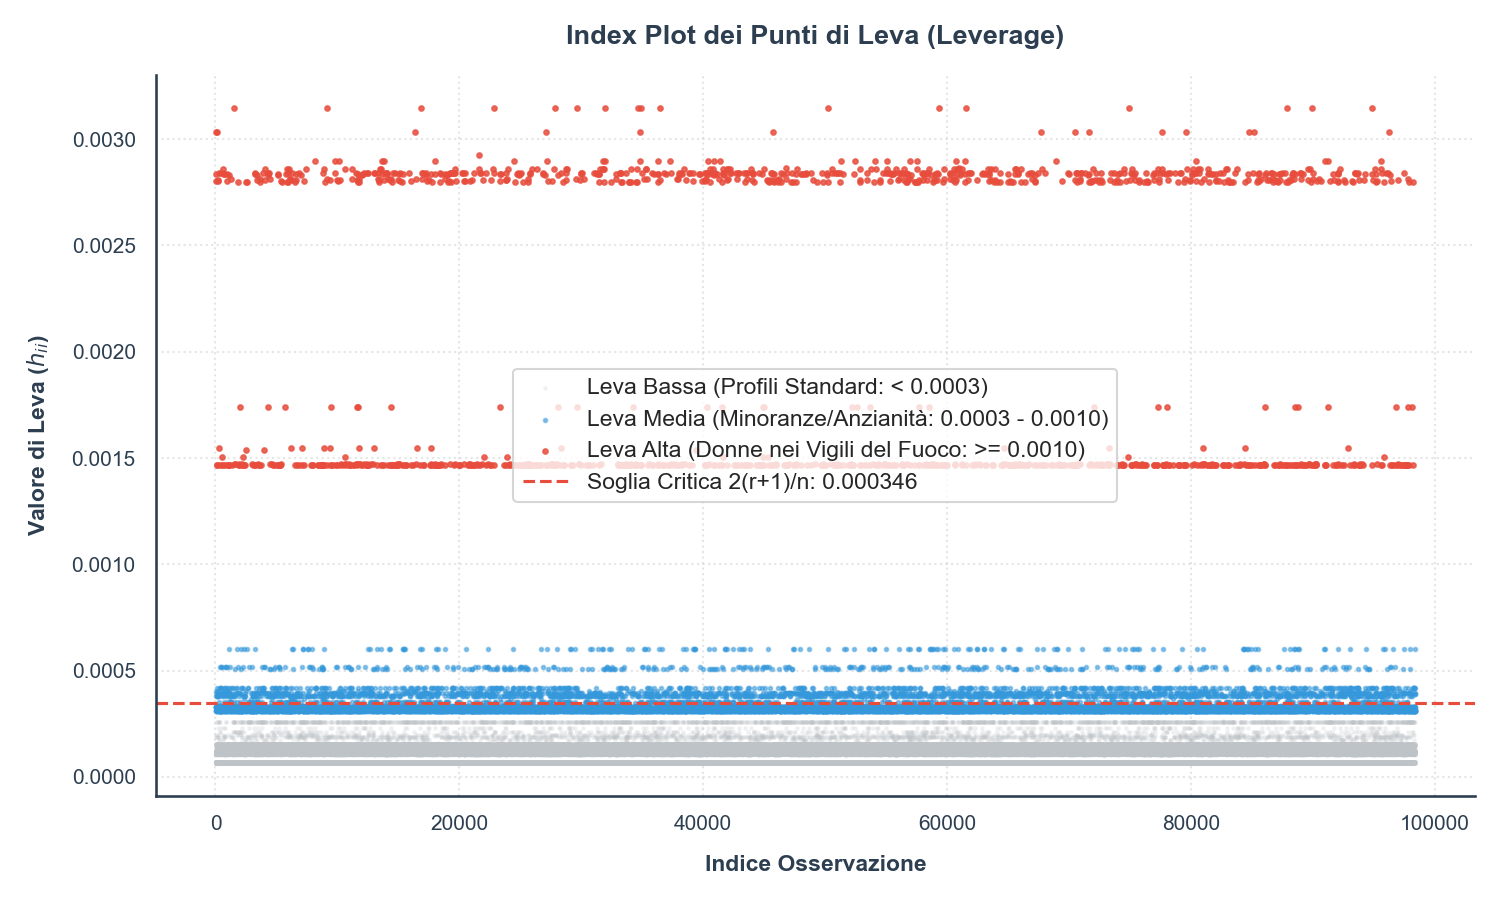
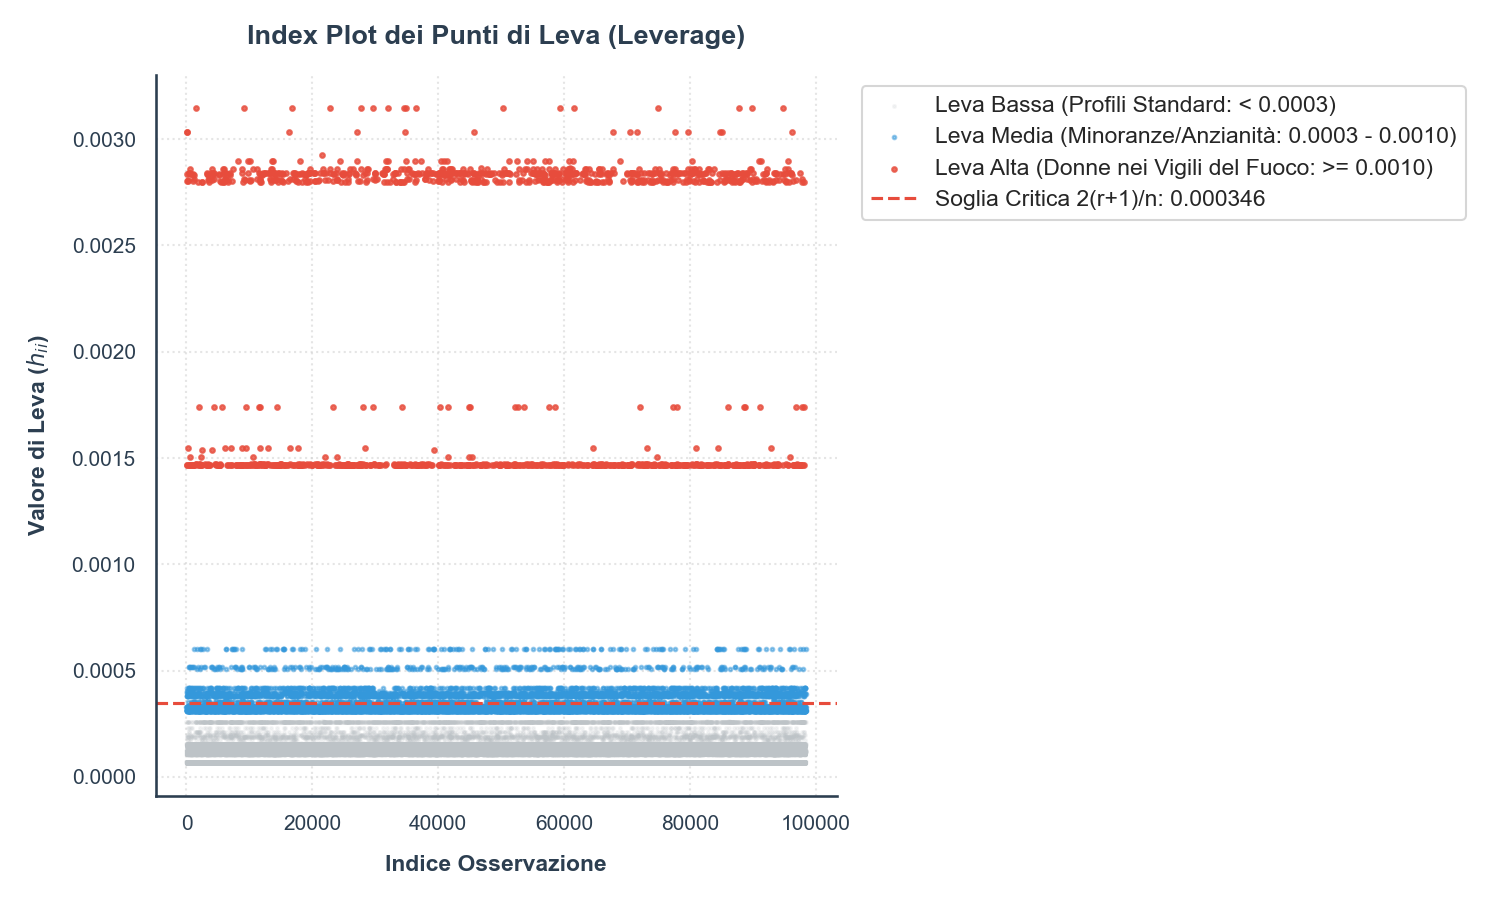
Spostata la legenda del leverage plot all'esterno per evitare sovrapposizioni con i punti

diff --git a/gender_analysis.py b/gender_analysis.py
@@ -354,7 +354,7 @@ def main():
     ax.spines['bottom'].set_color('#2c3e50')
     
     ax.tick_params(colors='#2c3e50')
-    ax.legend(loc='center', frameon=True, facecolor='white', edgecolor='#cccccc')
+    ax.legend(bbox_to_anchor=(1.02, 1), loc='upper left', frameon=True, facecolor='white', edgecolor='#cccccc')
     
     plt.tight_layout()
     plt.savefig('plots/leverage.png', dpi=150)